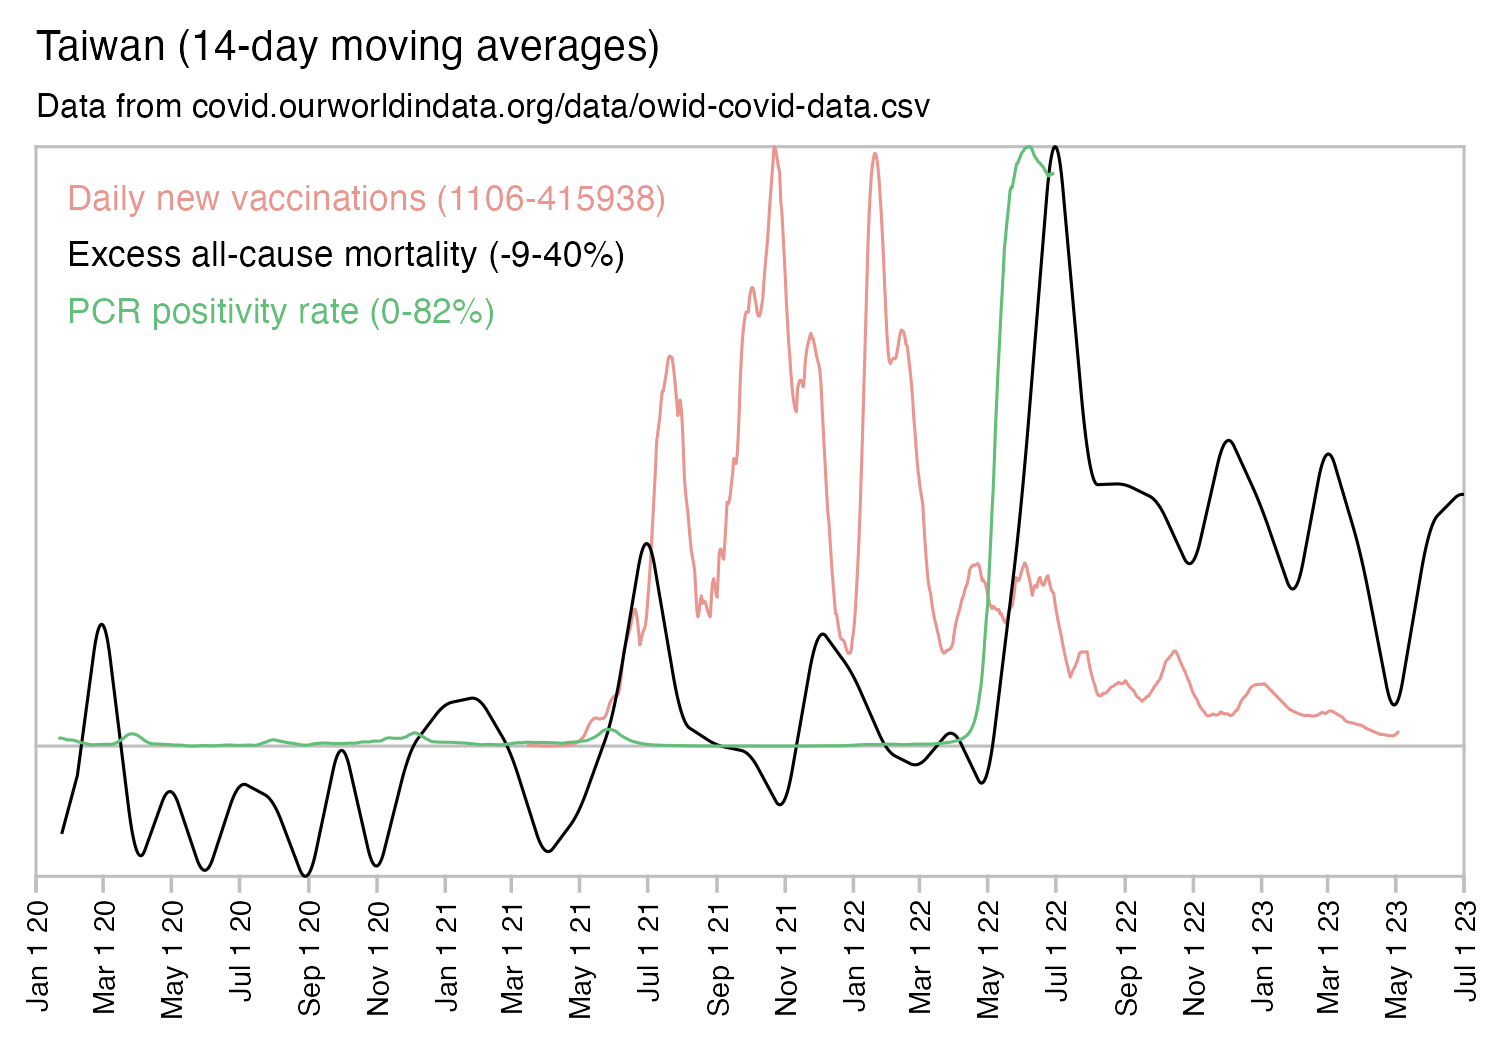
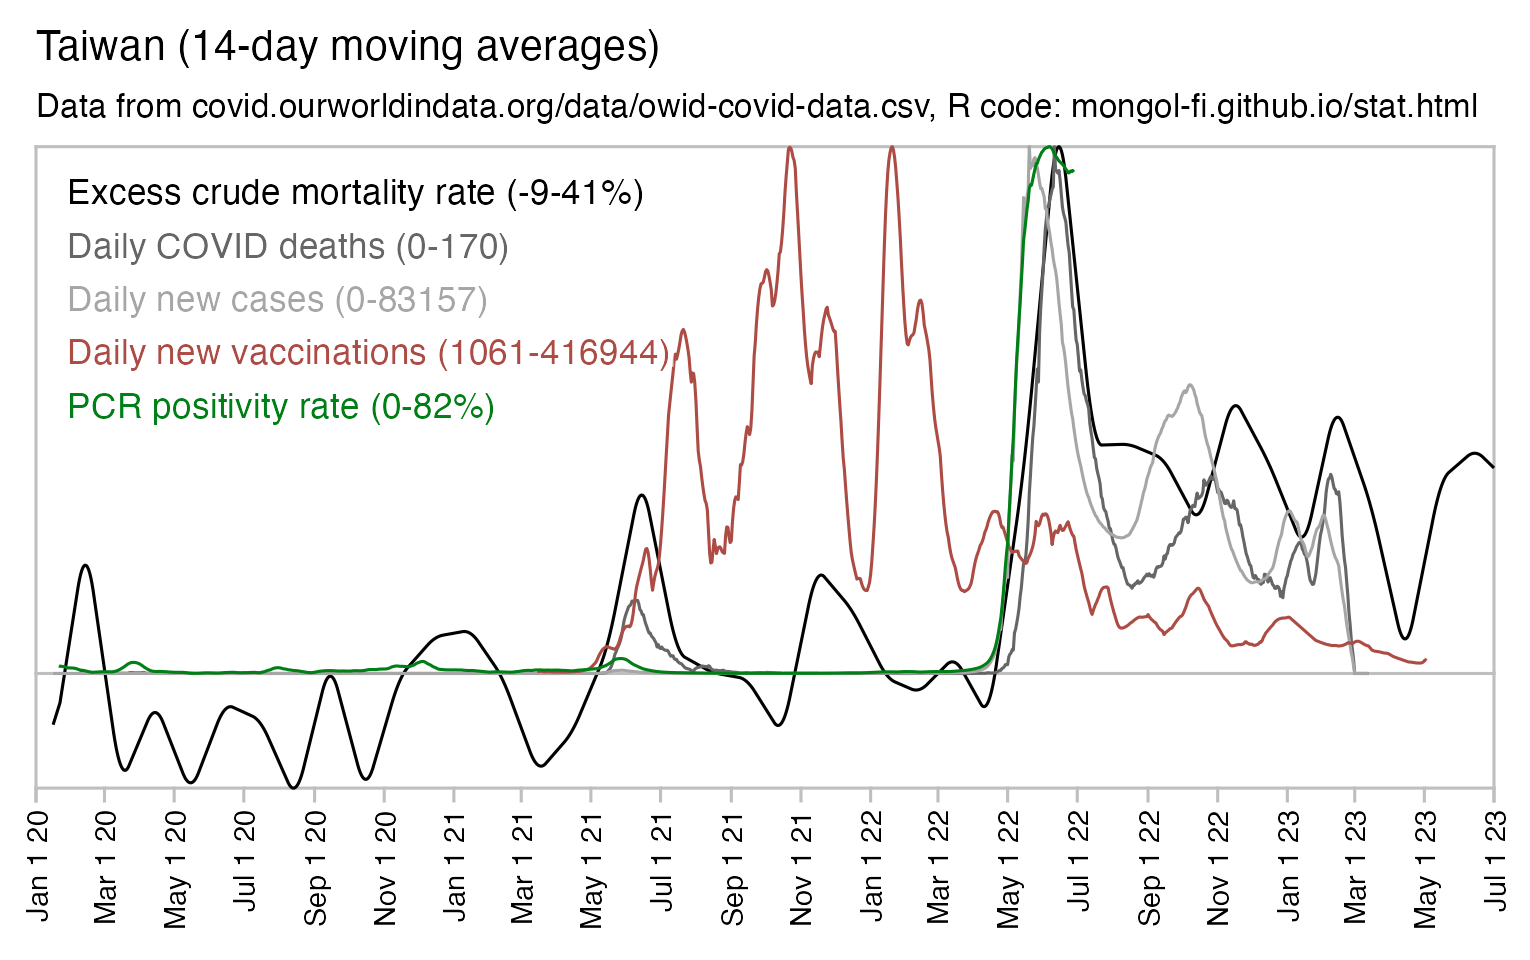
a

Changed region(s): [[0.0, 0.0312, 1.0, 0.9688], [0.0, 0.8438, 0.0307, 0.9688], [0.9507, 0.4688, 0.9813, 0.5]]

diff --git a/nopandemic.html b/nopandemic.html
@@ -93,6 +93,7 @@ th{background:#eee;text-align:left;font-weight:bold}
 <li><a href=#Plot_for_excess_mortality_in_Australia_which_used_a_52_week_moving_average>Plot for excess mortality in Australia which used a 52-week moving average</a></li>
 <li><a href=#Mixing_up_statistical_significance_and_prediction_intervals_in_respiratory_illness_data_for_Germany>Mixing up statistical significance and prediction intervals in respiratory illness data for Germany</a></li>
 <li><a href=#Twitter_thread_about_excess_mortality_in_20_most_vaccinated_high_HDI_countries>Twitter thread about excess mortality in 20 most vaccinated high-HDI countries</a></li>
+<li><a href=#Excess_mortality_in_Philippines>Excess mortality in Philippines</a></li>
 </ul></li>
 <li><a href=#J_J_Couey>J.J. Couey</a>
 <ul>
@@ -1036,13 +1037,13 @@ Test Date,County,New Positives,Total Number of Tests Performed
 <div class="width11">
 <img src="i/nopandemic-rancourt-canada-us.png">
 </div>
-<p>In a set of GISAID submission with a collection date in 2020, 1010 out of 1035 B.1.577 samples have the country listed as USA. However there's a sublineage of B.1.577 which is first found in Oregon and Washington but which is a few days later found in British Columbia:</p>
+<p>In a set of GISAID submission with a collection date in 2020, 1006 out of 1031 B.1.577 samples have the country listed as USA. However there's a sublineage of B.1.577 which is first found in Oregon and Washington State but which is a few days later found in British Columbia:</p>
 <pre>$ curl mongol-fi.github.io/f/gisaid2020.tsv.xz|xz -dc&gt;gisaid2020.tsv
-$ grep B.1.577 gisaid2020.tsv|cut -f6|sort|uniq -c|sort
+$ awk -F\\t &#39;$5==&quot;B.1.577&quot;&#39; gisaid2020.tsv|cut -f6|sort|uniq -c|sort
       1 Chile
       1 Mexico
      23 Canada
-   1010 USA
+   1006 USA
 $ awk -F\\t &#39;NR==1||$12==&quot;C241T,C1059T,T1482A,C3037T,C3045T,C7834T,C10030T,C10319T,A11782G,C14408T,C16694T,T17407C,C21057T,A23403G,A25105G,G25234A,G25563T,C27964T,C28892T&quot;&#39; gisaid2020.tsv|cut -f2,4,6-8|csvtk -t pretty|sed 2d
 isolate                              collection_date   country   region             city
 hCoV-19/USA/OR-OHSU-3241/2020        2020-10-07        USA       Oregon             Clackamas County
@@ -1061,7 +1062,24 @@ hCoV-19/USA/OR-PROV-597/2020         2020-11-07        USA       Oregon
 hCoV-19/USA/TX-HMH-MCoV-17990/2020   2020-11-16        USA       Texas              Houston
 hCoV-19/USA/ME-HETL-J13136/2020      2020-12-07        USA       Maine
 hCoV-19/USA/WA-UW-45114/2020         2020-12-08        USA       Washington</pre>
-<p>In spring 2020 there were also sublineages of B.1 which were first found in New York but which were later found in Quebec or Ontario: <a href=#Mutations_of_GISAID_samples_from_New_York_City_in_March_2020>#Mutations_of_GISAID_samples_from_New_York_City_in_March_2020</a>.</p>
+<p>The last line of output below shows a 22-mutation sublineage of B.1.577, which is found in 14 submissions at GISAID but all of them are from British Columbia, and the lines above it show its potential ancestor lineages which are found exclusively in the USA:</p>
+<pre>$ awk -F\\t &#39;NR==FNR{a[$0];next}!$19{n=0;split($12,b,&quot;,&quot;);for(i in b){if(b[i]in a)n++;else next}print n FS$0}&#39; &lt;(tr , \\n&lt;&lt;&lt;C241T,C1059T,T1482A,C3037T,C7834T,C10030T,C10319T,A11782G,C13356T,A14010G,C14408T,C16694T,T17407C,C17746T,G21624A,A23403G,A25105G,G25234A,C25521T,G25563T,C27964T,C28892T) gisaid2020.tsv|awk &#39;!a[$1]++&#39;|cut -f1,5-8,13|sort -n|awk -F\\t &#39;NR==FNR{a[$12]++;next}{print$0 FS a[$6]}&#39; gisaid2020.tsv -|(printf &#39;mutations from Wuhan-Hu-1\tcollection date\tlineage\tcountry\tregion\tmutation set\tnumber of samples with same mutation set\n&#39;;cat)|tr \\t \|
+mutations from Wuhan-Hu-1|collection date|lineage|country|region|mutation set|number of samples with same mutation set
+0|2019-12-30|B|China|Hubei||2069
+1|2020-02-25|Unassigned|Sweden||A23403G|691
+2|2020-02-05|B|China|Guangzhou|C241T,A23403G|33
+3|2020-01-24|B.1|China|Sichuan|C241T,C3037T,A23403G|44
+4|2020-02-03|B.1|United Kingdom|England|C241T,C3037T,C14408T,A23403G|2790
+5|2020-02-26|B.1|France|Bretagne|C241T,C3037T,C14408T,A23403G,G25563T|321
+6|2020-02-13|B.1|France|Ile-de-France|C241T,C1059T,C3037T,C14408T,A23403G,G25563T|5419
+7|2020-03-02|B.1|USA|Michigan|C241T,C1059T,C3037T,C14408T,A23403G,G25563T,C27964T|450
+8|2020-03-13|B.1.595|USA|Minnesota|C241T,C1059T,C3037T,C10319T,C14408T,A23403G,G25563T,C27964T|135
+9|2020-03-14|B.1.595|USA|Minnesota|C241T,C1059T,C3037T,C10319T,C14408T,C16694T,A23403G,G25563T,C27964T|3
+14|2020-07-07|B.1.577|USA|Colorado|C241T,C1059T,C3037T,C7834T,C10030T,C10319T,C14408T,C16694T,T17407C,A23403G,A25105G,G25563T,C27964T,C28892T|5
+17|2020-12-01|B.1.577|USA|Wyoming|C241T,C1059T,C3037T,C10030T,C10319T,A11782G,A14010G,C14408T,C16694T,T17407C,A23403G,A25105G,G25234A,C25521T,G25563T,C27964T,C28892T|1
+22|2020-12-23|B.1.577|Canada|British Columbia|C241T,C1059T,T1482A,C3037T,C7834T,C10030T,C10319T,A11782G,C13356T,A14010G,C14408T,C16694T,T17407C,C17746T,G21624A,A23403G,A25105G,G25234A,C25521T,G25563T,C27964T,C28892T|14</pre>
+<p>In the code above I selected samples whose mutation set is a subset of the 22-mutation set that is found in British Columbia, and I displayed the earliest sample for each number of mutations from Wuhan-Hu-1. The samples displayed do not represent the actual chain of variants which led to the 22-mutation strain, and actually there's multiple possible chains which may have led to the strain, even though in each chain the ancestors with over 7 mutations are only found exclusively in the USA.</p>
+<p>In March 2020 there were also sublineages of B.1 which were first found in New York but which were later found in Quebec or Ontario: <a href=#Mutations_of_GISAID_samples_from_New_York_City_in_March_2020>#Mutations_of_GISAID_samples_from_New_York_City_in_March_2020</a>.</p>
 <h3>
 <a href=#Excess_deaths_in_southern_US_states_in_summer_2020 id=Excess_deaths_in_southern_US_states_in_summer_2020>Excess deaths in southern US states in summer 2020</a>
 </h3>
@@ -1207,7 +1225,15 @@ Australian Capital Territory
 <div class="width5">
 <img src="i/nopandemic-taiwan-3.png">
 </div>
-<p>Wikipedia says that the outbreak in summer 2021 may have started among the crew members of an airline company: <span class="quote">&quot;However, an outbreak among Taiwanese crew members of the state-owned China Airlines in late April 2021 led to a sharp surge in cases, mainly in the Greater Taipei area, from mid May. In response, the closure of all schools in the area from kindergarten to high schools was mandated for two weeks, and national borders were closed for at least a month to those without a residence permit, among other measures.[26]&quot;</span> [<a href="https://en.wikipedia.org/wiki/COVID-19_pandemic_in_Taiwan">https://en.wikipedia.org/wiki/COVID-19_pandemic_in_Taiwan</a>]</p>
+<p>Wikipedia says that the outbreak in summer 2021 may have started among the crew members of an airline company: <span class="quote">&quot;However, an outbreak among Taiwanese crew members of the state-owned China Airlines in late April 2021 led to a sharp surge in cases, mainly in the Greater Taipei area, from mid May. In response, the closure of all schools in the area from kindergarten to high schools was mandated for two weeks, and national borders were closed for at least a month to those without a residence permit, among other measures.[26]&quot;</span> [<a href="https://en.wikipedia.org/wiki/COVID-19_pandemic_in_Taiwan">https://en.wikipedia.org/wiki/COVID-19_pandemic_in_Taiwan</a>] When I searched for GISAID submissions from Taiwan from May-August 2021, 154 out of 176 submissions were classified under B.1.1.7, and the region of almost all submissions was either Hsinchu or not listed, so it indicates that the outbreak was localized and mostly consisted of a single strain. [<a href="https://cov-spectrum.org/explore/Taiwan/AllSamples/from%3D2021-04-06%26to%3D2021-07-16/variants">https://cov-spectrum.org/explore/Taiwan/AllSamples/from%3D2021-04-06%26to%3D2021-07-16/variants</a>]</p>
+<p>USMortality later posted this plot which made it appear like excess mortality began to rise around the same time when vaccination started in Taiwan:</p>
+<div class="width5">
+<img src="i/nopandemic-taiwan-4.jpg">
+</div>
+<p>However his plot used a 52-week moving average, and actually excess mortality remained near zero for a year after the jabs were rolled out, but excess mortality shot up in May 2022 at the same time when there was the first big increase in PCR positivity rate:</p>
+<div class="width5">
+<img src="i/nopandemic-taiwan-5.png">
+</div>
 <h3>
 <a href=#Claim_that_the_neighboring_countries_of_Italy_were_completely_spared_by_COVID_in_spring_2020 id=Claim_that_the_neighboring_countries_of_Italy_were_completely_spared_by_COVID_in_spring_2020>Claim that the neighboring countries of Italy were completely spared by COVID in spring 2020</a>
 </h3>
@@ -1250,7 +1276,8 @@ Australian Capital Territory
 <div class="width5">
 <img src="i/nopandemic-usmortality-australia.jpg">
 </div>
-<p>However his plot deceptively used a 52-week moving average, and actually there was little excess mortality in Australia until January 2022 when Australia got Omicron, when there was also the first big increase in PCR positivity rate:</p>
+<p>However his plot used a 52-week moving average (where the window for the moving average extended 51 weeks backwards, and not 26 weeks backwards and 25 weeks forwards or vice versa). His plot gives the impression that there was a stable increase in excess mortality starting from mid-2021, but it could partially be because there was negative excess mortality in 2020, so in 2021 as the window for the moving average began to move past the period with negative excess mortality, the value of the moving average began to increase.</p>
+<p>From the plot below you can see that there was actually negative excess mortality in mid-2021 when there was a peak in the number of new vaccines given. And there wasn't a clear increase in excess mortality until January 2022 when Australia got Omicron and when there was also the first big increase in PCR positivity rate:</p>
 <div class="width6">
 <img src="i/nopandemic-usmortality-australia-2.png">
 </div>
@@ -1301,7 +1328,7 @@ Australian Capital Territory
         &quot;2021-05-24&quot;         &quot;2021-06-07&quot;         &quot;2021-10-16&quot;         &quot;2021-11-13&quot;
          South Korea            Australia          New Zealand
         &quot;2021-12-25&quot;         &quot;2022-01-08&quot;         &quot;2022-04-14&quot;</pre>
-<p>Hong Kong is missing from the code block above because OWID's data for COVID deaths comes from WHO which includes Hong Kong under China. But in JHU's dataset where Hong Kong is not included under China, Hong Kong had only 213 COVID deaths at the beginning of February 2022 until the number of deaths exploded to about 8,000 by the end of March 2022. In Hong Kong the excess mortality, PCR positivity rate, and COVID deaths all remained flat from 2020 until February 2022. According to OWID, Hong Kong had about 170% excess mortality in March 2022 even though about 85% of the population of Hong Kong was already vaccinated in March 2022. However according to the table below, about 70% of COVID deaths in Hong Kong in 2022 were in unvaccinated people (and I don't think the large number of deaths in unvaccinated people can be explained by misclassification of people as unvaccinated for 2 or 3 weeks after their first jab, since only a small number of people received their first vaccine dose in 2022): [<a href="https://www.chp.gov.hk/files/pdf/local_situation_covid19_en.pdf">https://www.chp.gov.hk/files/pdf/local_situation_covid19_en.pdf</a>]</p>
+<p>Hong Kong is missing from the code block above because OWID's data for COVID deaths comes from WHO which includes Hong Kong under China. But in JHU's dataset where Hong Kong is not included under China, Hong Kong had only 213 COVID deaths at the beginning of February 2022 until the number of deaths exploded to about 8,000 by the end of March 2022. In Hong Kong the excess mortality, PCR positivity rate, and COVID deaths all remained flat from 2020 until February 2022. According to OWID, Hong Kong had about 170% excess mortality in March 2022 even though about 85% of the population of Hong Kong was already vaccinated in March 2022. However according to the table below, about 70% of COVID deaths in Hong Kong in 2022 were in unvaccinated people (and I don't think the large number of deaths in unvaccinated people can be explained by misclassification of people as unvaccinated for 2 or 3 weeks after their first jab, since not that many people received their first vaccine dose in 2022): [<a href="https://www.chp.gov.hk/files/pdf/local_situation_covid19_en.pdf">https://www.chp.gov.hk/files/pdf/local_situation_covid19_en.pdf</a>]</p>
 <div class="width5">
 <img src="i/hong-kong-vaxdeath.jpg">
 </div>
@@ -1311,6 +1338,17 @@ Australian Capital Territory
 <img src="i/nopandemic-usmortality-hdi-2.jpg">
 </div>
 <p>And also when I used a linear regression of data from 2017-2019 as the baseline, Italy got 18.1% ASMR in 2020 and 21.3% in 2022, so there was an increase of about 18%. But when I used the 2017-2019 average as the baseline, Italy got 11.3% excess ASMR in 2020 and 7.5% in 2022, so there was a decrease of about 34%. [<a href="https://next.mortality.watch/explorer/?c=PRT&c=ESP&c=ITA&ct=yearly&df=2013&dt=2022&bf=2017&bt=2019&bm=linear_regression&pi=0&p=1&v=2">https://next.mortality.watch/explorer/?c=PRT&amp;c=ESP&amp;c=ITA&amp;ct=yearly&amp;df=2013&amp;dt=2022&amp;bf=2017&amp;bt=2019&amp;bm=linear_regression&amp;pi=0&amp;p=1&amp;v=2</a>]</p>
+<h3>
+<a href=#Excess_mortality_in_Philippines id=Excess_mortality_in_Philippines>Excess mortality in Philippines</a>
+</h3>
+<p>USMortality posted this plot which showed that Philippines had much higher excess mortality in 2021 than 2020:</p>
+<div class="width5">
+<img src="i/nopandemic-usmortality-philippines-1.jpg">
+</div>
+<p>However many East Asian and Southeast Asian countries had a low number of COVID deaths until 2021 or 2022, and Philippines is one of them. And in Philippines the curve for excess mortality also follows the curve for PCR positivity rate as usual:</p>
+<div class="width6">
+<img src="i/nopandemic-usmortality-philippines-2.png">
+</div>
 <h2>
 <a href=#J_J_Couey id=J_J_Couey>J.J. Couey</a>
 </h2>
